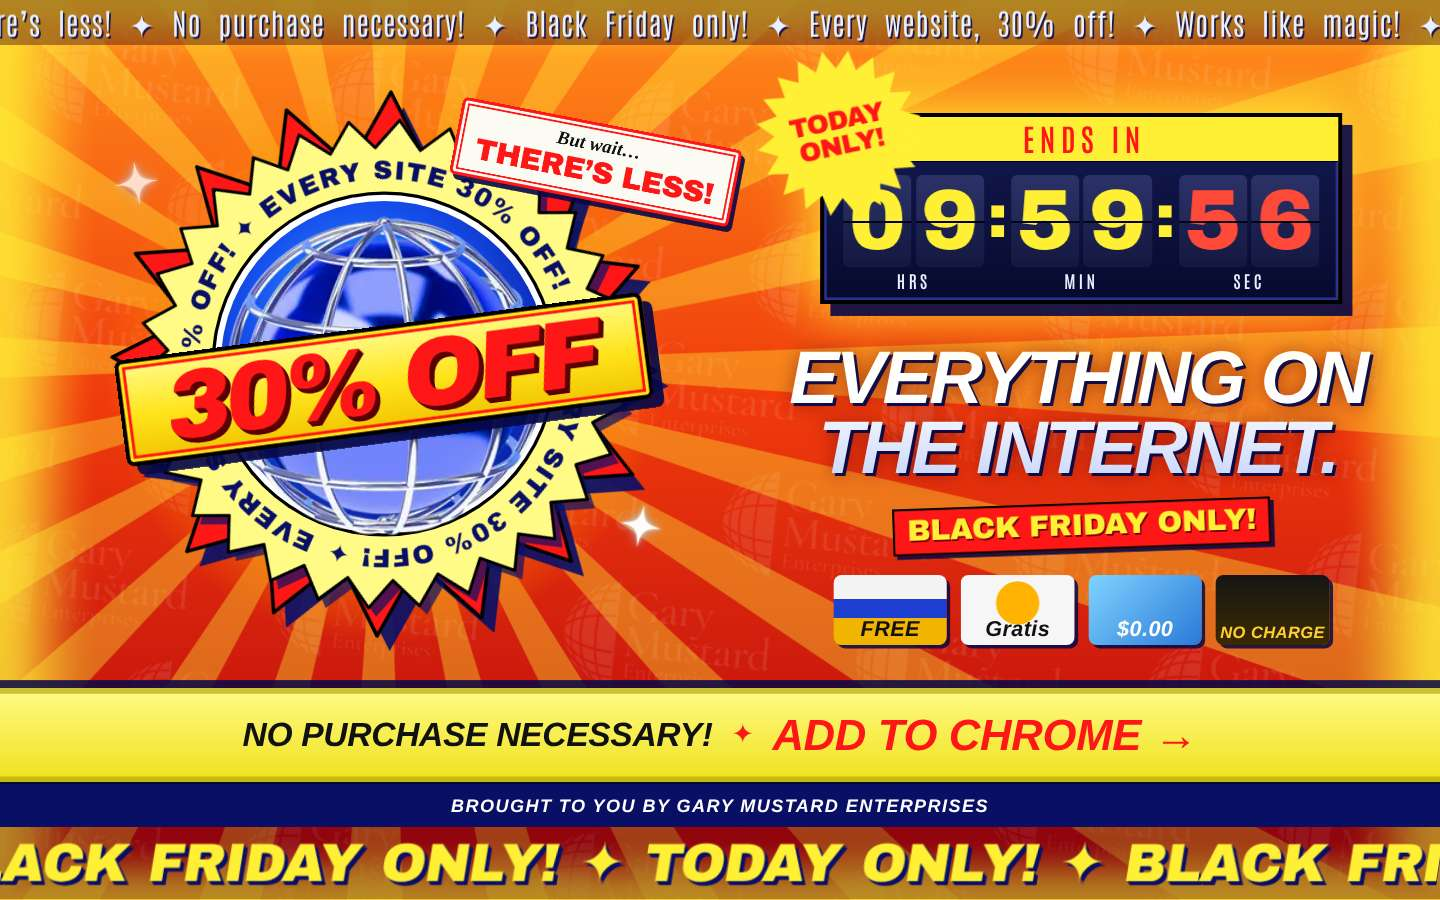
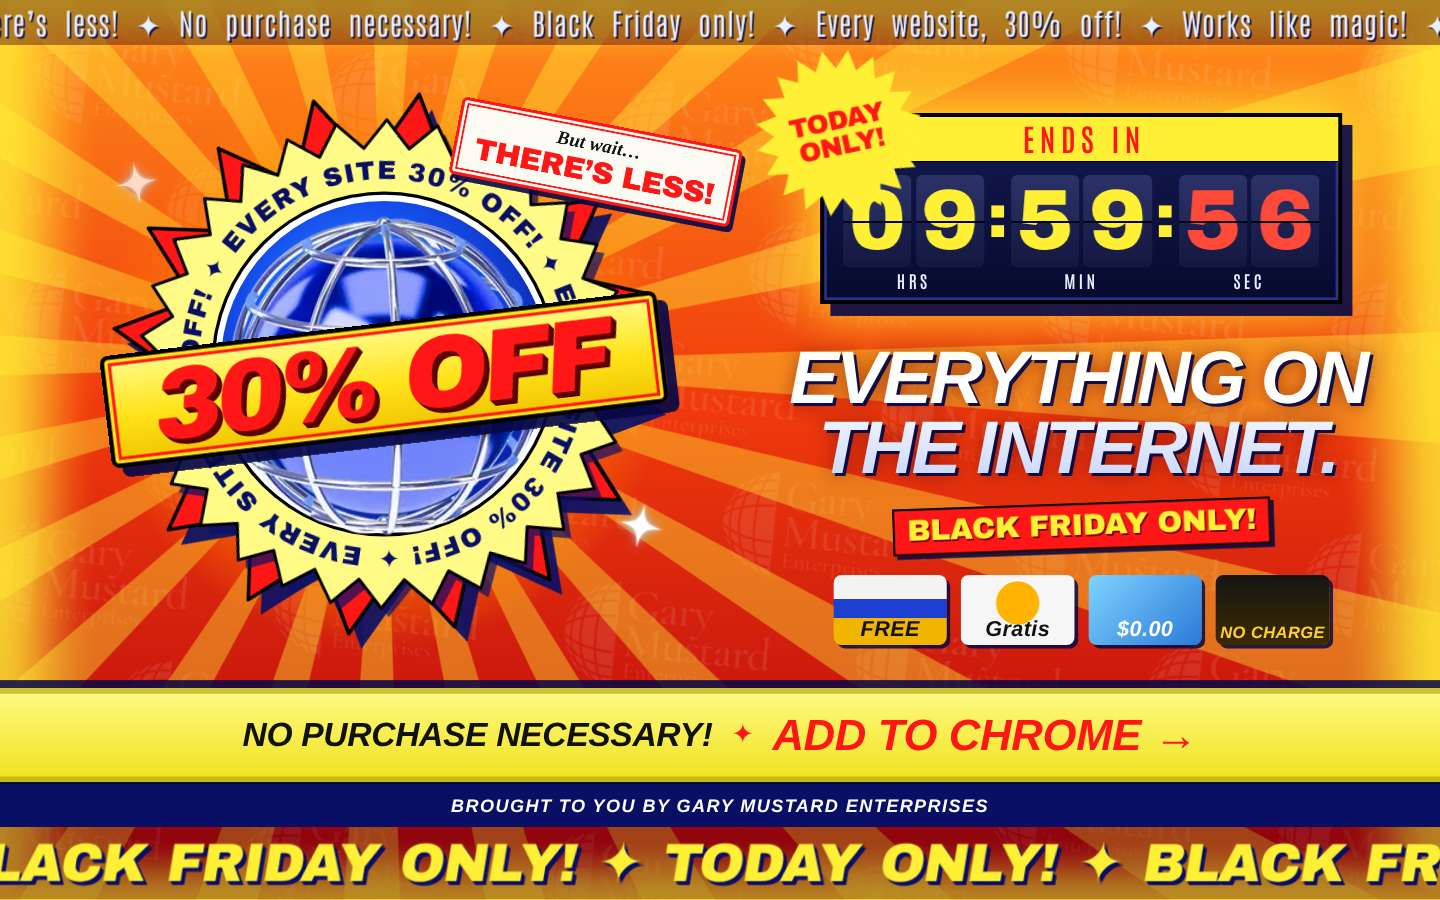
Website, phones: read down from the badge (30% OFF, EVERYTHING ON THE INTERNET., BLACK FRIDAY ONLY!), then the clock; three arrangements to choose from (?m=a|b|c)
Claude-Session: https://claude.ai/code/session_01NWuCfpnnkXbDHA2WA7GWBY

diff --git a/website/src/main.js b/website/src/main.js
@@ -21,6 +21,7 @@ const FREEZE = Q.has('freeze');
 // The VHS tape look (filter and scanlines): off by default; true turns it on, ?tape turns it on for one visit
 const TAPE = false || Q.has('tape');
 const KEEP = Q.has('keep');
+const M = ['a', 'b', 'c'].includes(Q.get('m')) ? Q.get('m') : 'a'; // the phone arrangement (see style.css)
 const STILL = matchMedia('(prefers-reduced-motion: reduce)').matches;
 const MOVING = !STILL;
 
@@ -137,16 +138,9 @@ function settle(tall, s) {
   cards.style.marginTop = '';
   for (const f of fits) Object.assign(f.style, { top: '', bottom: '' });
   const box = (el) => el.getBoundingClientRect();
-  if (tall) {
-    for (let i = 0; i < 3; i++) {
-      const above = box(cards).top - box($('.tag')).bottom, below = box($('.order')).top - box(cards).bottom;
-      const zoom = box(cards).height / cards.offsetHeight || 1; // the fitted block is scaled
-      const shift = (below - above) / 2 / zoom;
-      if (Math.abs(shift) < 0.5) break;
-      cards.style.marginTop = `${parseFloat(getComputedStyle(cards).marginTop) + shift}px`;
-    }
-  } else {
-    // stack them with one even gap, the pair centred on the badge
+  if (tall) return;
+  // wide: stack them with one even gap, the pair centred on the badge
+  {
     const [clockFit, wordsFit] = fits, gap = s * 34;
     const hClock = box(clockFit).height, hWords = box(wordsFit).height, badge = box($('.burst'));
     const top = (badge.top + badge.bottom) / 2 - (hClock + gap + hWords) / 2;
@@ -160,11 +154,16 @@ let geo = { W: 1, H: 1, s: 1, tall: false, cx: 0, cy: 0, r: 100 };
 function layout() {
   const W = tv.clientWidth, H = tv.clientHeight, tall = W / H < 0.85;
   set('tall', tall); set('wide', !tall);
+  for (const k of ['a', 'b', 'c']) set(`m-${k}`, k === M);
   const s = tall ? Math.min(W / 430, H / 900) : Math.min(W / 1280, H / 800);
   root.style.setProperty('--s', `${s}px`);
 
+  // the cards go in their own row under the clock in arrangement a, else with the words
+  const cards = $('.cards'), own = tall && M === 'a';
+  (own ? $('.cards-box .fit') : $('.words')).append(cards);
   fit($('.timer'), tall ? { w: 0.9, h: 0.94 } : { w: 0.94, h: 0.96 });
   fit($('.words'), tall ? { w: 0.94, h: 0.96 } : { w: 0.96, h: 0.96 });
+  if (own) fit($('.cards-box .fit'), { w: 0.86, h: 0.8 });
   fit($('.order .fit'), tall ? { w: 0.9, h: 0.72 } : { w: 0.9, h: 0.46 });
   fit($('.by .fit'), { w: 0.92, h: 0.42 });
   settle(tall, s);

diff --git a/website/src/style.css b/website/src/style.css
@@ -60,7 +60,16 @@ body { -webkit-font-smoothing: antialiased; -webkit-tap-highlight-color: transpa
 .stage { flex: 1 1 0 !important; min-height: 0; width: 100%; max-width: calc(1440 * var(--s)); margin: 0 auto; display: grid;
          grid-template: "badge clock" 33fr "badge words" 67fr / 52fr 48fr; column-gap: calc(56 * var(--s));
          padding: calc(16 * var(--s)) calc(48 * var(--s)) calc(20 * var(--s)); }
-.tall .stage { grid-template: "badge" 380fr "clock" 128fr "words" 220fr / 100%; padding: calc(10 * var(--s)) calc(14 * var(--s)) calc(14 * var(--s)); }
+/* tall windows read down from the badge: 30% OFF, EVERYTHING ON THE INTERNET., BLACK FRIDAY ONLY!, then the
+   clock. Three arrangements (?m=a|b|c): the cards under the clock, the cards over it, or no cards */
+.tall .stage { grid-template: "badge" 380fr "words" 170fr "clock" 132fr "cards" 78fr / 100%; padding: calc(10 * var(--s)) calc(14 * var(--s)) calc(14 * var(--s)); }
+.tall.m-b .stage { grid-template: "badge" 380fr "words" 236fr "clock" 132fr / 100%; }
+.tall.m-c .stage { grid-template: "badge" 420fr "words" 176fr "clock" 150fr / 100%; }
+.cards-box { grid-area: cards; position: relative; min-width: 0; min-height: 0; display: none; }
+.tall.m-a .cards-box { display: block; }
+.cards-box .cards { margin-top: 0; }
+.tall.m-b .words .cards { margin-top: 0.9em; margin-bottom: 0.7em; }
+.tall.m-c .cards { display: none; }
 .badge-box { grid-area: badge; position: relative; min-height: 0; container-type: size; }
 .clock-box { grid-area: clock; position: relative; min-width: 0; min-height: 0; z-index: 2; }
 .words-box { grid-area: words; position: relative; min-width: 0; min-height: 0; z-index: 1; }

diff --git a/website/src/index.html b/website/src/index.html
@@ -80,6 +80,8 @@
         </div>
       </div>
 
+      <div class="cards-box"><div class="fit"></div></div>
+
       <div class="words-box">
         <div class="fit words">
           <h2 class="sub"><span>EVERYTHING ON</span> <span>THE INTERNET.</span></h2>
